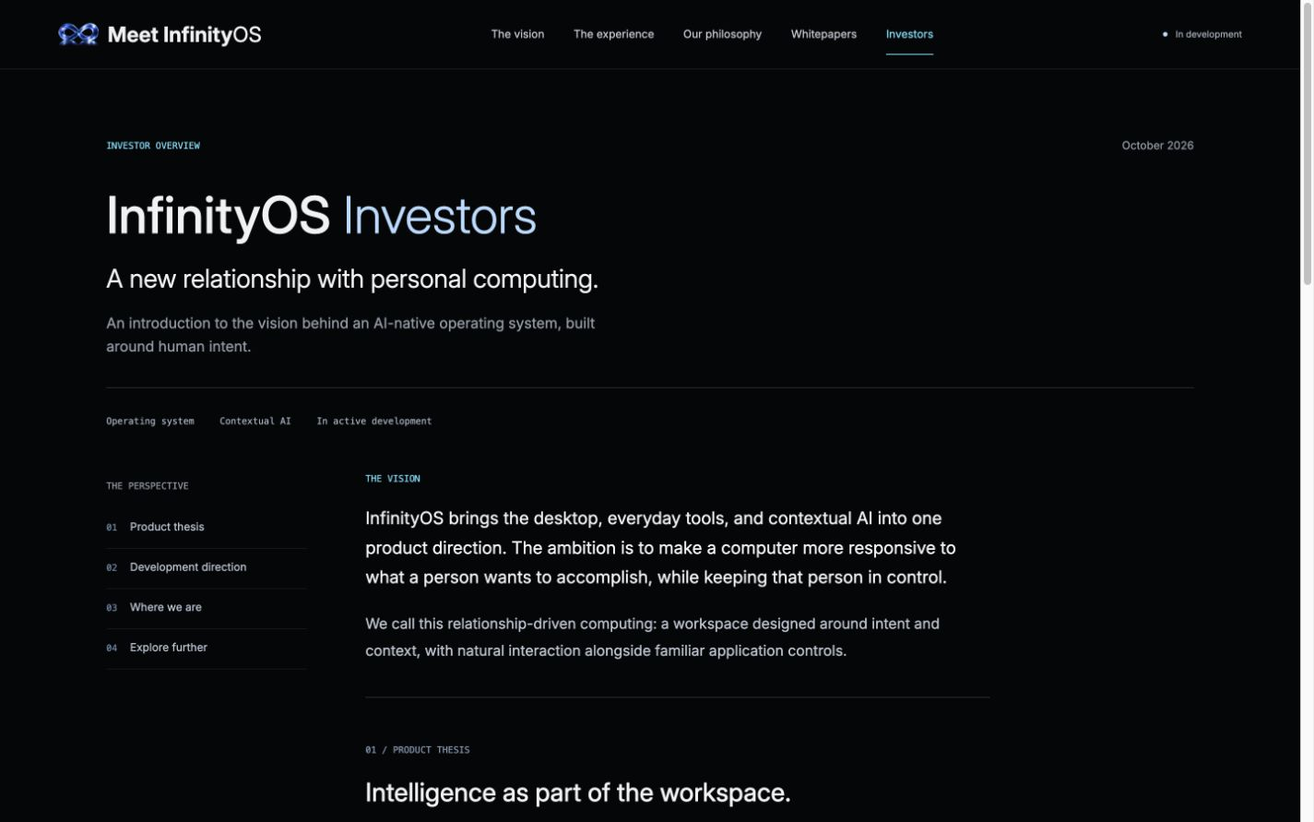
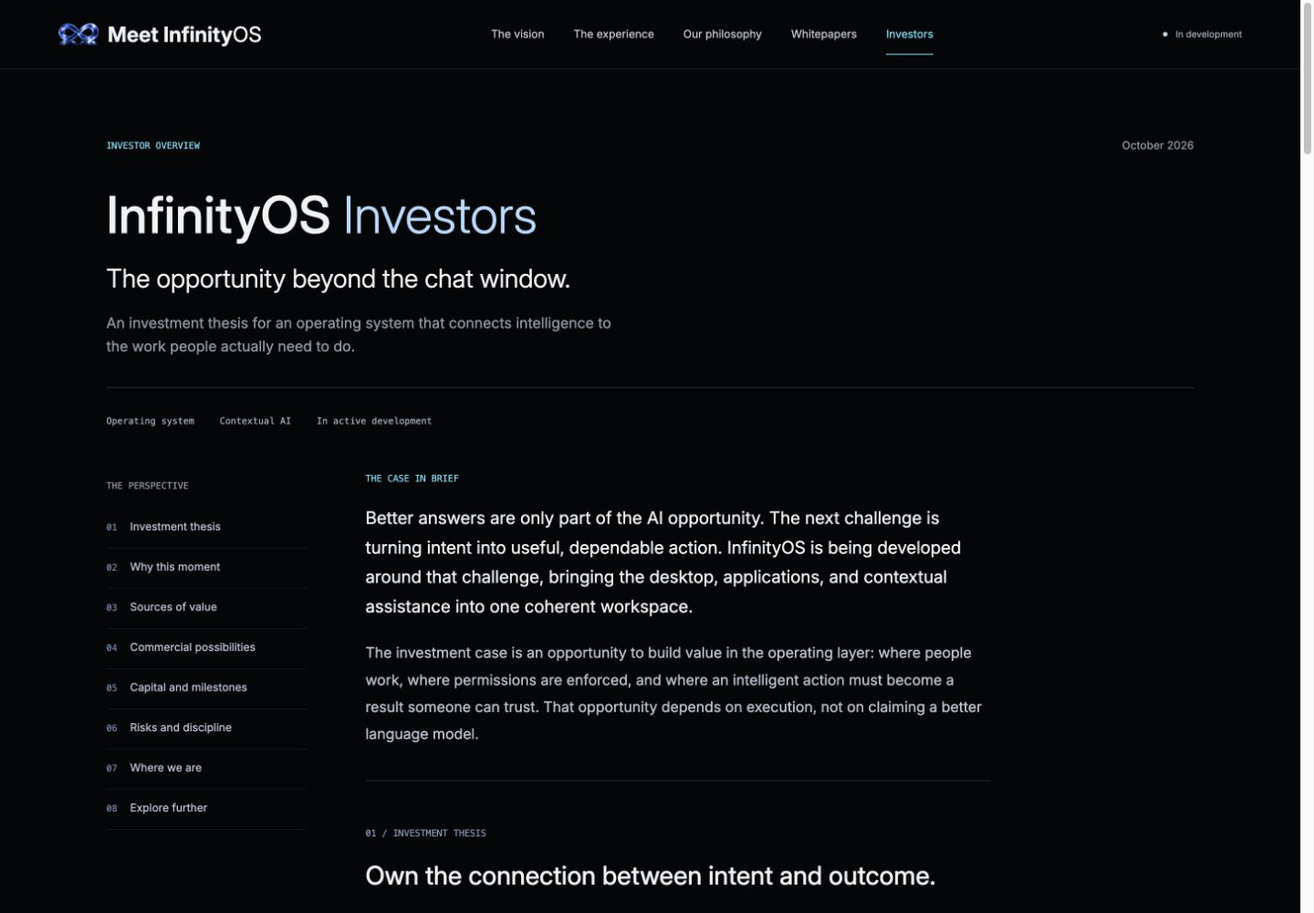
Add forthcoming whitepaper library and expand investor thesis

diff --git a/meetinfinityos.com/invest.html b/meetinfinityos.com/invest.html
@@ -5,9 +5,9 @@
   <meta name="viewport" content="width=device-width,initial-scale=1">
   <meta name="theme-color" content="#050608">
   <title>InfinityOS | Investors</title>
-  <meta name="description" content="An investor introduction to InfinityOS: the product vision, development direction, and public resources behind relationship-driven computing.">
+  <meta name="description" content="The investment thesis behind InfinityOS: an AI-native operating layer, potential commercial models, development milestones, and the risks that matter.">
   <meta property="og:title" content="InfinityOS | Investors">
-  <meta property="og:description" content="A new relationship with personal computing. Explore the vision and development direction behind InfinityOS.">
+  <meta property="og:description" content="The opportunity beyond the chat window. Explore the investment thesis, commercial possibilities, and development priorities behind InfinityOS.">
   <meta property="og:image" content="https://meetinfinityos.com/assets/infinity-emblem.webp">
   <meta property="og:url" content="https://meetinfinityos.com/invest.html">
   <meta name="twitter:card" content="summary_large_image">
@@ -34,50 +34,97 @@
     <header class="paper-heading">
       <div class="paper-label"><span class="eyebrow">INVESTOR OVERVIEW</span><time datetime="2026-10-20">October 2026</time></div>
       <h1>InfinityOS <span>Investors</span></h1>
-      <p class="paper-subtitle">A new relationship with personal computing.</p>
-      <p class="paper-deck">An introduction to the vision behind an AI-native operating system, built around human intent.</p>
+      <p class="paper-subtitle">The opportunity beyond the chat window.</p>
+      <p class="paper-deck">An investment thesis for an operating system that connects intelligence to the work people actually need to do.</p>
       <div class="paper-meta"><span>Operating system</span><span>Contextual AI</span><span>In active development</span></div>
     </header>
     <div class="paper-layout">
       <aside class="paper-contents">
         <nav aria-label="Investor overview contents">
           <p class="eyebrow">THE PERSPECTIVE</p>
-          <a href="#thesis"><span>01</span> Product thesis</a>
-          <a href="#direction"><span>02</span> Development direction</a>
-          <a href="#status"><span>03</span> Where we are</a>
-          <a href="#resources"><span>04</span> Explore further</a>
+          <a href="#thesis"><span>01</span> Investment thesis</a>
+          <a href="#timing"><span>02</span> Why this moment</a>
+          <a href="#direction"><span>03</span> Sources of value</a>
+          <a href="#commercial"><span>04</span> Commercial possibilities</a>
+          <a href="#milestones"><span>05</span> Capital and milestones</a>
+          <a href="#risks"><span>06</span> Risks and discipline</a>
+          <a href="#status"><span>07</span> Where we are</a>
+          <a href="#resources"><span>08</span> Explore further</a>
         </nav>
       </aside>
       <article class="paper-body" id="investor-overview" aria-label="InfinityOS investor overview" tabindex="-1">
         <div class="paper-abstract">
-          <p class="eyebrow">THE VISION</p>
-          <p>InfinityOS brings the desktop, everyday tools, and contextual AI into one product direction. The ambition is to make a computer more responsive to what a person wants to accomplish, while keeping that person in control.</p>
-          <p>We call this relationship-driven computing: a workspace designed around intent and context, with natural interaction alongside familiar application controls.</p>
+          <p class="eyebrow">THE CASE IN BRIEF</p>
+          <p>Better answers are only part of the AI opportunity. The next challenge is turning intent into useful, dependable action. InfinityOS is being developed around that challenge, bringing the desktop, applications, and contextual assistance into one coherent workspace.</p>
+          <p>The investment case is an opportunity to build value in the operating layer: where people work, where permissions are enforced, and where an intelligent action must become a result someone can trust. That opportunity depends on execution, not on claiming a better language model.</p>
         </div>
         <section id="thesis" aria-labelledby="thesis-title">
-          <span class="paper-number">01 / PRODUCT THESIS</span>
-          <h2 id="thesis-title">Intelligence as part of the workspace.</h2>
-          <p>The central idea is to design AI assistance together with the operating system and its applications, rather than treat every task as a separate conversation. A request should connect to the relevant tool, an understandable action, and a result the person can inspect.</p>
-          <p>The product direction spans voice interaction, app-aware assistance, writing and browsing tools, and coordination between devices. These are connected parts of a single vision, not claims of general availability.</p>
+          <span class="paper-number">01 / INVESTMENT THESIS</span>
+          <h2 id="thesis-title">Own the connection between intent and outcome.</h2>
+          <p>A capable assistant still creates friction when a person must copy its answer, find the right application, recreate the context, and complete the action manually. InfinityOS aims to shorten that distance: ask for a draft, work with it in the editor, revise it, and save it within the same environment.</p>
+          <p>Designing the operating system and its core tools together offers a way to coordinate context, actions, permissions, and feedback. If those workflows become measurably more useful, the value could persist as underlying models improve or change. The product would compete on the quality of completed work, not the novelty of a conversation.</p>
+          <blockquote>The unit of value is a task completed, not a response generated.</blockquote>
+        </section>
+        <section id="timing" aria-labelledby="timing-title">
+          <span class="paper-number">02 / WHY THIS MOMENT</span>
+          <h2 id="timing-title">Intelligence is moving into the operating layer.</h2>
+          <p>Apple describes app actions and personal context as part of Apple Intelligence. Microsoft is developing permission-controlled agent experiences in Windows. These are signals that AI interaction is becoming a platform concern, beyond a standalone chat interface.</p>
+          <p>Our interpretation is that a deliberate, end-to-end workspace deserves exploration now. This does not establish demand for InfinityOS. It also raises the competitive bar: a new platform must offer a focused reason to adopt it alongside mature alternatives.</p>
+          <p class="source-note">Category context: <a href="https://developer.apple.com/apple-intelligence/" target="_blank" rel="noopener noreferrer">Apple Intelligence for developers</a> and <a href="https://learn.microsoft.com/en-us/windows/security/book/operating-system-agentic-security" target="_blank" rel="noopener noreferrer">Microsoft's agentic OS security approach</a>. These sources are not endorsements of InfinityOS.</p>
         </section>
         <section id="direction" aria-labelledby="direction-title">
-          <span class="paper-number">02 / DEVELOPMENT DIRECTION</span>
-          <h2 id="direction-title">Capability, with continuity and control.</h2>
-          <p>Three principles guide the experience: natural interaction that complements direct controls; assistance that stays relevant to the current task; and a connected workspace that preserves the usefulness of an individual device.</p>
-          <p>Reliability and clear permission boundaries matter as much as the interaction itself. More active assistance should make outcomes easier to understand, not make the system harder to trust.</p>
-          <blockquote>More capable technology should leave you more in control.</blockquote>
+          <span class="paper-number">03 / SOURCES OF VALUE</span>
+          <h2 id="direction-title">Four reasons the approach could matter.</h2>
+          <h3>Everyday utility, not occasional novelty.</h3>
+          <p>Writing, finding files, navigating applications, and continuing a task are repeat activities. Removing steps from those workflows creates a concrete adoption hypothesis: people return because the workspace helps them finish work. Task success, time saved, and repeat use must substantiate that hypothesis.</p>
+          <h3>Local intelligence with practical economics.</h3>
+          <p>Where hardware and models are suitable, local inference could reduce dependence on per-request cloud services and keep more processing on the device. It is not free compute or a blanket privacy guarantee. Memory, energy, latency, model quality, and support costs determine whether it is an advantage.</p>
+          <h3>Trust designed into the interaction.</h3>
+          <p>App-aware assistance needs explicit boundaries. Permission-aware actions, understandable outcomes, and familiar direct controls could make an active assistant more usable in accountable work environments. That value must be demonstrated through security review and failure recovery, not inferred from a design promise.</p>
+          <h3>A platform that can extend beyond one device.</h3>
+          <p>The connected-workspace direction creates longer-term possibilities around shared resources and continuity between devices. It is potential expansion, not a prerequisite for the initial case. One supported device doing a bounded set of tasks reliably should come first.</p>
+        </section>
+        <section id="commercial" aria-labelledby="commercial-title">
+          <span class="paper-number">04 / COMMERCIAL POSSIBILITIES</span>
+          <h2 id="commercial-title">Earn a focused foothold. Then expand.</h2>
+          <p>The credible starting point is not replacing every desktop. It is identifying a specific group whose recurring workflows benefit enough to justify adoption. Candidate routes to test include:</p>
+          <h3>Managed workplace deployments.</h3>
+          <p>Organizations with bounded workflows could value a supported environment with deployment, updates, policy controls, and operational assistance. Licensing and support are possible revenue paths if the product demonstrates lower total operating effort and customers are willing to pay.</p>
+          <h3>Device and integration partnerships.</h3>
+          <p>A limited hardware profile could make performance and support more predictable. Device licensing or integration services are potential channels, subject to partner demand and a credible compatibility program. No partnerships are announced here.</p>
+          <h3>A developer ecosystem over time.</h3>
+          <p>If an installed base and useful application interfaces emerge, developer services and distribution could create additional opportunities. This is a later-stage option, not revenue that should be assumed today. These models are hypotheses to validate, not established business lines.</p>
+        </section>
+        <section id="milestones" aria-labelledby="milestones-title">
+          <span class="paper-number">05 / CAPITAL AND MILESTONES</span>
+          <h2 id="milestones-title">Fund evidence, not just a broader roadmap.</h2>
+          <p>A disciplined investment program would prioritize product reliability, a narrow supported configuration, security validation, and early customer discovery. Progress should be judged against explicit gates:</p>
+          <ol>
+            <li><strong>Prove the workflow.</strong> Test complete user tasks, including errors and recovery. Measure completion rates, end-to-end response time, resource use, and the benefit over direct interaction.</li>
+            <li><strong>Prove the deployment.</strong> Establish repeatable clean installation, updates, recovery, hardware support, and compatibility for the applications required by the initial audience.</li>
+            <li><strong>Prove the boundaries.</strong> Independently examine permission enforcement, data handling, action confirmation, and behavior when a model or device fails.</li>
+            <li><strong>Prove willingness to pay.</strong> Run scoped pilots, measure retention and support effort, and test paid conversion before assuming scalable demand or attractive margins.</li>
+          </ol>
+          <p>These are proposed diligence milestones, not completed results or a published funding allocation. They make the thesis testable and help distinguish durable progress from an impressive demonstration.</p>
+        </section>
+        <section id="risks" aria-labelledby="risks-title">
+          <span class="paper-number">06 / RISKS AND DISCIPLINE</span>
+          <h2 id="risks-title">A meaningful opportunity. A demanding build.</h2>
+          <p>An operating system faces high execution costs: application and driver compatibility, reliable networking, installation and recovery, security maintenance, and sustained support. Local AI adds hardware constraints and variable output. A useful prototype alone does not resolve these challenges.</p>
+          <p>Incumbents have distribution, established ecosystems, and substantial resources. InfinityOS would need to earn differentiation through dependable workflows, integrations, and customer relationships. No defensible moat, commercial traction, or investment return is claimed here.</p>
+          <p>The appropriate response is focus: narrow the initial deployment, validate the use case, publish evidence, and expand only when reliability and adoption justify it.</p>
         </section>
         <section id="status" aria-labelledby="status-title">
-          <span class="paper-number">03 / WHERE WE ARE</span>
-          <h2 id="status-title">In development. Built with a long view.</h2>
-          <p>InfinityOS is in active development. The experiences presented on this website are illustrative product studies. Public availability, supported hardware, and release-specific capabilities will be shared separately when ready.</p>
-          <p>This public overview does not announce a funding round, valuation, financial forecast, or investment terms. It is an introduction to the product direction, not an offer of securities.</p>
+          <span class="paper-number">07 / WHERE WE ARE</span>
+          <h2 id="status-title">An active development effort, not a finished platform.</h2>
+          <p>InfinityOS is in active development, with work spanning the desktop, core applications, app-aware control, and voice and local AI interaction. The website presents illustrative product studies, not proof of release readiness or supported-hardware performance.</p>
+          <p>Public availability, independently validated results, and release-specific capabilities will be communicated separately. This page does not announce a funding round, valuation, forecast, investment terms, or an offer of securities.</p>
         </section>
         <section id="resources" aria-labelledby="resources-title">
-          <span class="paper-number">04 / EXPLORE FURTHER</span>
+          <span class="paper-number">08 / EXPLORE FURTHER</span>
           <h2 id="resources-title">Start with the thinking.<br>Then explore the experience.</h2>
-          <p>The whitepaper outlines the principles behind InfinityOS, including contextual intelligence, natural interaction, and human agency. The product preview shows how that direction is being expressed in the workspace.</p>
-          <a class="text-link" href="whitepaper.html">Read the whitepaper <svg aria-hidden="true"><use href="#arrow"/></svg></a>
+          <p>The public overview explains the principles behind InfinityOS. The whitepaper library will host downloadable public knowledge PDFs as they are published; the four forthcoming entries are not yet available. The product preview illustrates the workspace direction.</p>
+          <a class="text-link" href="whitepaper.html">Explore the whitepaper library <svg aria-hidden="true"><use href="#arrow"/></svg></a>
         </section>
         <div class="paper-end"><a class="text-link" href="index.html#experience">Explore InfinityOS <svg aria-hidden="true"><use href="#arrow"/></svg></a><a href="#top">Back to top</a></div>
       </article>

diff --git a/meetinfinityos.com/whitepaper.html b/meetinfinityos.com/whitepaper.html
@@ -4,10 +4,10 @@
   <meta charset="utf-8">
   <meta name="viewport" content="width=device-width,initial-scale=1">
   <meta name="theme-color" content="#050608">
-  <title>InfinityOS Whitepaper | Relationship-driven computing</title>
-  <meta name="description" content="A public overview of the ideas guiding InfinityOS: relationship-driven computing, contextual intelligence, natural interaction, and connected workspaces.">
-  <meta property="og:title" content="InfinityOS Whitepaper">
-  <meta property="og:description" content="Relationship-driven computing. The ideas guiding InfinityOS.">
+  <title>InfinityOS Whitepapers | Public knowledge</title>
+  <meta name="description" content="The InfinityOS public knowledge library. Forthcoming PDF whitepapers and an online overview of relationship-driven computing.">
+  <meta property="og:title" content="InfinityOS Whitepapers">
+  <meta property="og:description" content="Public knowledge, perspectives, and the ideas guiding InfinityOS.">
   <meta property="og:image" content="https://meetinfinityos.com/assets/infinity-emblem.webp">
   <meta property="og:url" content="https://meetinfinityos.com/whitepaper.html">
   <meta name="twitter:card" content="summary_large_image">
@@ -24,7 +24,7 @@
     <symbol id="close" viewBox="0 0 24 24"><path d="m18 6-12 12M6 6l12 12"/></symbol>
     <symbol id="arrow" viewBox="0 0 24 24"><path d="M7 7h10v10M7 17 17 7"/></symbol>
   </svg>
-  <a class="skip-link" href="#paper">Skip to whitepaper</a>
+  <a class="skip-link" href="#publications">Skip to publications</a>
   <header class="site-header">
     <a class="wordmark" href="index.html#home" aria-label="InfinityOS home"><span class="brand-mark"><img src="assets/brand.webp" width="60" height="34" alt=""></span>Meet Infinity<span>OS</span></a>
     <nav id="main-nav" aria-label="Main navigation"><a href="index.html#vision">The vision</a><a href="index.html#experience">The experience</a><a href="index.html#principles">Our philosophy</a><a href="whitepaper.html" aria-current="page">Whitepapers</a><a href="invest.html">Investors</a></nav>
@@ -32,16 +32,26 @@
   </header>
   <main id="top">
     <header class="paper-heading">
-      <div class="paper-label"><span class="eyebrow">WHITEPAPERS / 01</span><time datetime="2026-10-20">October 2026</time></div>
-      <h1>InfinityOS <span>Whitepaper</span></h1>
-      <p class="paper-subtitle">Relationship-driven computing.</p>
-      <p class="paper-deck">An operating system designed around the person, the context, and the next intention.</p>
-      <div class="paper-meta"><span>Public overview</span><span>Version 0.1</span><span>Design direction / In development</span></div>
+      <div class="paper-label"><span class="eyebrow">PUBLIC KNOWLEDGE</span><time datetime="2026-10-20">October 2026</time></div>
+      <h1>InfinityOS <span>Whitepapers</span></h1>
+      <p class="paper-subtitle">Ideas, in the open.</p>
+      <p class="paper-deck">Perspectives on a more intentional relationship with computing. Our public papers will be available here as downloadable PDFs.</p>
+      <div class="paper-meta"><span>Publication library</span><span>4 forthcoming papers</span><span>PDF downloads coming soon</span></div>
     </header>
+    <section class="publication-library" id="publications" aria-labelledby="publications-title" tabindex="-1">
+      <div class="library-heading"><h2 id="publications-title">The collection</h2><span class="eyebrow">FORTHCOMING / 01&ndash;04</span></div>
+      <ol class="publication-list">
+        <li class="publication-entry"><span class="publication-number" aria-hidden="true">01</span><div><h3>Whitepaper 01</h3><p>Title and summary to be announced.</p><span class="publication-status">PDF forthcoming</span></div></li>
+        <li class="publication-entry"><span class="publication-number" aria-hidden="true">02</span><div><h3>Whitepaper 02</h3><p>Title and summary to be announced.</p><span class="publication-status">PDF forthcoming</span></div></li>
+        <li class="publication-entry"><span class="publication-number" aria-hidden="true">03</span><div><h3>Whitepaper 03</h3><p>Title and summary to be announced.</p><span class="publication-status">PDF forthcoming</span></div></li>
+        <li class="publication-entry"><span class="publication-number" aria-hidden="true">04</span><div><h3>Whitepaper 04</h3><p>Title and summary to be announced.</p><span class="publication-status">PDF forthcoming</span></div></li>
+      </ol>
+      <div class="library-note"><p>PDFs are not yet available. In the meantime, explore the principles behind InfinityOS.</p><a class="text-link" href="#paper">Read the public overview <svg aria-hidden="true"><use href="#arrow"/></svg></a></div>
+    </section>
     <div class="paper-layout">
       <aside class="paper-contents">
         <nav aria-label="Whitepaper contents">
-          <p class="eyebrow">IN THIS PAPER</p>
+          <p class="eyebrow">PUBLIC OVERVIEW / V0.1</p>
           <a href="#premise"><span>01</span> The premise</a>
           <a href="#interaction"><span>02</span> Natural interaction</a>
           <a href="#intelligence"><span>03</span> Intelligence in context</a>

diff --git a/meetinfinityos.com/whitepaper.css b/meetinfinityos.com/whitepaper.css
@@ -1,4 +1,4 @@
-.paper-heading, .paper-layout { max-width: 1320px; margin-inline: auto; padding-inline: var(--gutter); }
+.paper-heading, .paper-layout, .publication-library { max-width: 1320px; margin-inline: auto; padding-inline: var(--gutter); }
 .paper-heading { padding-top: 150px; padding-bottom: 48px; }
 .paper-label { display: flex; justify-content: space-between; gap: 24px; align-items: center; color: var(--cyan); }
 .paper-label time { color: var(--muted); font-size: 12px; }
@@ -25,6 +25,26 @@
 .paper-end { border-top: 1px solid var(--line); padding-top: 28px; display: flex; flex-wrap: wrap; justify-content: space-between; gap: 24px; align-items: center; }
 .paper-end > a { font-size: 12px; color: var(--cyan); min-height: 44px; display: inline-flex; align-items: center; }
 .paper-end > a:last-child { color: var(--muted); }
+.publication-library { padding-bottom: 80px; }
+.library-heading { display: flex; flex-wrap: wrap; align-items: center; justify-content: space-between; gap: 16px; margin-bottom: 24px; }
+.library-heading h2 { font-size: 24px; font-weight: 450; }
+.library-heading .eyebrow { color: var(--muted); }
+.publication-list { display: grid; grid-template-columns: repeat(2,minmax(0,1fr)); gap: 0 48px; list-style: none; padding: 0; margin: 0; }
+.publication-entry { display: grid; grid-template-columns: 32px minmax(0,1fr); gap: 20px; padding-block: 30px; border-top: 1px solid var(--line); }
+.publication-number { color: #849ab5; font: 11px/1.6 ui-monospace,SFMono-Regular,Consolas,monospace; padding-top: 4px; }
+.publication-entry h3 { font-size: 20px; font-weight: 450; line-height: 1.4; }
+.publication-entry p { color: var(--muted); font-size: 13px; margin-top: 8px; }
+.publication-status { display: block; margin-top: 20px; color: var(--cyan); font: 10px/1.6 ui-monospace,SFMono-Regular,Consolas,monospace; }
+.library-note { display: flex; justify-content: space-between; align-items: center; gap: 32px; border-block: 1px solid var(--line); padding-block: 24px; }
+.library-note p { color: var(--muted); font-size: 13px; max-width: 50ch; }
+.library-note .text-link { flex-shrink: 0; color: var(--cyan); }
+.paper-body h3 { font-size: 19px; line-height: 1.4; font-weight: 500; color: var(--paper); margin: 30px 0 12px; }
+.paper-body strong { color: var(--paper); font-weight: 550; }
+.paper-body .source-note { font-size: 12px; line-height: 1.8; color: var(--muted); margin-top: 20px; }
+.source-note a { text-decoration: underline; text-underline-offset: 4px; color: var(--ice); }
+.paper-body ol { padding-left: 22px; margin: 24px 0; }
+.paper-body li { padding-left: 6px; margin-block: 16px; }
+.paper-body li::marker { color: var(--cyan); font-size: 13px; }
 @media(max-width:1000px) {
   .paper-layout { grid-template-columns: 190px minmax(0,1fr); gap: 40px; }
 }
@@ -41,6 +61,11 @@
   .paper-abstract > p:nth-child(2) { font-size: 18px; }
   .paper-body h2 { font-size: 25px; }
   .paper-body blockquote { font-size: 20px; }
+  .publication-library { padding-bottom: 48px; }
+  .publication-list { grid-template-columns: 1fr; }
+  .publication-entry { gap: 16px; padding-block: 24px; }
+  .library-note { flex-direction: column; align-items: flex-start; gap: 16px; }
+  .library-note .text-link { gap: 20px; }
   .no-js .paper-heading { padding-top: 36px; }
 }
 @media print {
@@ -48,7 +73,9 @@
   html { scroll-behavior: auto; }
   body { background: white; color: black; font-size: 11pt; }
   .site-header, .skip-link, .paper-contents, .paper-end, footer { display: none; }
-  .paper-heading, .paper-layout { max-width: none; padding: 0; }
+  .paper-heading, .paper-layout, .publication-library { max-width: none; padding: 0; }
+  .publication-library { margin-bottom: 36px; }
+  .publication-entry { break-inside: avoid; }
   .paper-heading { margin-bottom: 28px; }
   .paper-heading h1 { font-size: 32pt; }
   .paper-heading h1 span { display: inline; }

diff --git a/meetinfinityos.com/README.md b/meetinfinityos.com/README.md
@@ -29,7 +29,8 @@ Inter is self-hosted. No external runtime CDN requests are made.
 
 ## Verification
 
-Run `npm test` (no installation needed). Eight tests exercise production motion
+Run `./build-kit run npm --prefix meetinfinityos.com test` from the repository
+root (no installation needed). Eight tests exercise production motion
 state, preference persistence, restricted storage, source-artifact provenance,
 mesh depth and UV mapping, contour area, scroll pose, electrical routes, and
 shared navigation including keyboard dismissal and focus restoration.
@@ -38,19 +39,30 @@ shared navigation including keyboard dismissal and focus restoration.
 Desktop and mobile screenshots are visual evidence, not textual test oracles.
 Interactive preview content is explicitly illustrative; it is not a live OS session.
 
-## Whitepaper
+## Whitepapers
 
-The shared top navigation links to `whitepaper.html`. It presents a public
-design-direction overview with linked contents, responsive reading typography,
-and a print stylesheet. It reuses the existing kit and emblem, works without
+The shared top navigation links to `whitepaper.html`. Its public knowledge
+library has four explicitly requested forthcoming placeholders. No PDF files,
+download links, dates, sizes, or titles have been invented. The existing public
+design-direction overview remains below it with linked contents, responsive
+reading typography, and a print stylesheet. It reuses the kit, works without
 WebGL, and remains readable with JavaScript disabled. `navigation.js` owns the
 same mobile-menu behavior across the site; it does not load the homepage scene.
+
+When a paper is ready, add the approved public PDF under `publications/`, replace
+one `.publication-entry` with its real title, summary, version/date, page count,
+file size and a named `<a download>` link. Add the exact PDF path to `deploy.sh`'s
+allowlist and staging/publish steps; no private or draft documents belong there.
+Verify the downloaded file and its `application/pdf` response before publishing.
 
 ## Investors
 
 `invest.html` is linked from the top menu on all three pages. It reuses the
-reading-page stylesheet, shared navigation, and original emblem, with a public
-product overview and working links to the whitepaper and product experience.
+reading-page stylesheet, shared navigation, and original emblem. Its investment
+thesis covers workflow value, category context, commercial hypotheses, proposed
+diligence milestones, competitive risks and development status. Official Apple
+and Microsoft references support category context, not InfinityOS traction.
+Working links connect the library and product experience.
 It does not collect investment commitments, publish financial terms, or invent
 a contact address. Deployment includes this page in the runtime allowlist.
 
@@ -65,9 +77,9 @@ No DNS, Apache-vhost, TLS, database, or OS-image change is needed.
 backup, publishes the HTML last, and checks both HTTPS hostnames. Credentials
 are read from the existing deployment environment and are never stored here.
 
-This standalone website is not an installed InfinityOS component. The user
-explicitly exempted website work from the native build kit on 2026-10-20;
-the running native build and its lock must remain untouched.
+This standalone website is not an installed InfinityOS component and requires
+no ISO rebuild. Run bounded verification through the repository build kit;
+never disturb a running native build or its lock.
 
 ## Reproducing The Contours
 

diff --git a/meetinfinityos.com/design/continuum.md b/meetinfinityos.com/design/continuum.md
@@ -72,3 +72,20 @@ must fit at desktop and switch to the existing mobile menu at narrower widths.
 Present public product direction and development status, with real links to the
 whitepaper and product preview. Do not invent financials, traction, funding
 terms, contact details, or an investment submission flow.
+
+## Publication Library
+
+The existing kit has no publication listing. Extend the reading-page system with
+an unframed two-column list, thin horizontal separators, 20px publication titles,
+muted 13px summaries and a compact cyan publication status. Use one column below
+760px. Reuse the existing Inter roles and actual emblem; no fictional cover art.
+The four explicitly requested placeholders show numbered titles and forthcoming
+status, never links to missing files, fake dates, page counts or download buttons.
+Keep the existing public overview below the list with a working reading link.
+Future published entries must include a real PDF, version/date, file size and
+accessible download link before replacing the forthcoming status.
+
+The expanded investor narrative distinguishes an investment thesis, possible
+commercial paths and proposed diligence milestones from demonstrated outcomes.
+Keep the contents navigation, readable measure and section rhythm. Use sourced
+category context, not invented market sizes, traction, returns or funding terms.
